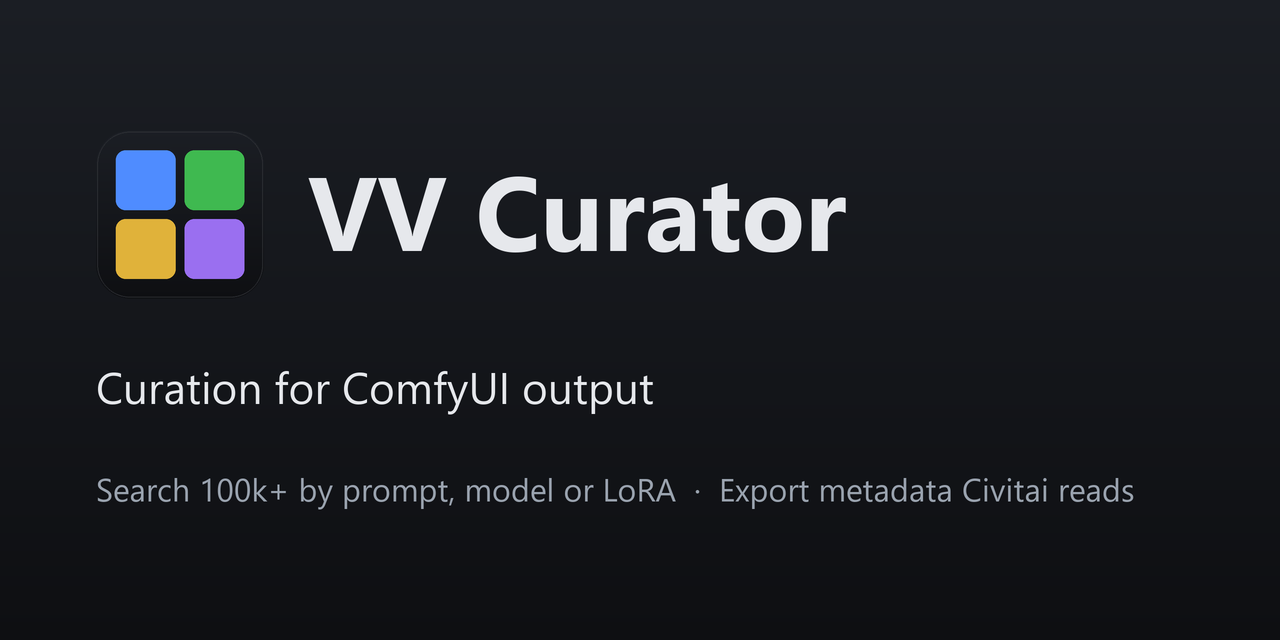
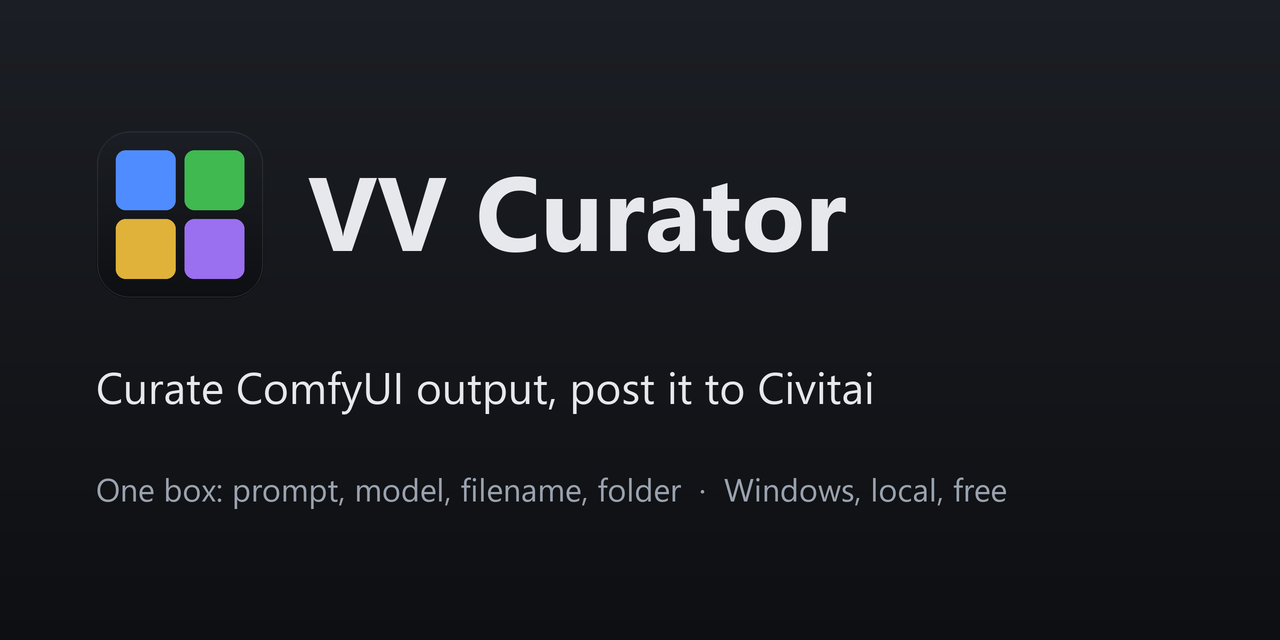
The pitch ends at posting, and the catch-up dialog can be switched off
README and ABOUT both opened on "A curation tool for people who generate
with ComfyUI" and ended their loop sentence at "export the good ones with
Civitai metadata" -- where 1.2 ended. Both now lead with the posting, and
Export is named as the by-hand alternative rather than the destination.

All three of README, ABOUT and the social card also claimed the search
covers LoRAs. It does not: images_fts indexes positive, model_name,
filename, folder and lyrics, and `loras` is a JSON column that feeds the
detail view and the Civitai export only. The same sentence was also
underselling, having never mentioned folder. Now recorded in help.md
under Known gaps.

The after-an-update dialog says how many libraries are behind rather than
implying every one of them is, and carries a "Don't show this again"
checkbox keyed on the reader version, so a build that reads more asks
again. "Do it later" is unchanged.

Changed region(s): [[0.1562, 0.5625, 0.6875, 0.6562], [0.0625, 0.75, 0.5312, 0.8125], [0.5625, 0.75, 0.9062, 0.7812]]

diff --git a/app/app.js b/app/app.js
@@ -118,7 +118,17 @@ function folderLeaf(f) {
 }
 // ---- styled confirm/alert/prompt dialogs (replace the browser-native popups) ----
 let _dlgResolve = null;
+// The opt-out's state from the dialog that just closed, read with dlgChecked(). Kept OUT of the
+// resolved value on purpose: uiConfirm resolves a plain boolean and every existing caller stays as
+// it is, where threading a second value through would have touched all of them to serve one dialog.
+let _dlgLastChecked = false;
+function dlgChecked() { return _dlgLastChecked; }
 function _dlgClose(result) {
+  // READ BEFORE HIDING, and on every route out -- OK, Cancel, Escape and the backdrop all land
+  // here. A ticked opt-out counts even when the dialog is dismissed with Escape: the tick is a
+  // statement about the dialog, not part of the answer to its question.
+  const _chk = $('#dlgCheck');
+  _dlgLastChecked = !_chk.classList.contains('hidden') && !!_chk.querySelector('input').checked;
   $('#dialog').classList.add('hidden');
   const r = _dlgResolve; _dlgResolve = null;
   if (r) r(result);
@@ -128,7 +138,7 @@ function _dlgClose(result) {
 // confirm that didn't ask for one. Same reason the default lives here and not in index.html.
 function _dlgOpen({ msg, title = null, ok = 'OK', cancel = 'Cancel', danger = false,
                    showCancel = true, input = null, choices = null,
-                   fields = null, values = null, strip = null }) {
+                   fields = null, values = null, strip = null, check = null }) {
   return new Promise(resolve => {
     _dlgResolve = resolve;
     // A heading only when one is asked for, and cleared when it is not — this dialog is reused for
@@ -183,6 +193,13 @@ function _dlgOpen({ msg, title = null, ok = 'OK', cancel = 'Cancel', danger = fa
     fieldBox.innerHTML = (fields || [])
       .map(f => extFieldRow({ id: 'dlg', values: values || {} }, f)).join('');
 
+    // OPT-OUT: `{label, checked}`, or null for the dialogs that have none. It never gates OK --
+    // unticked is the ordinary answer here, which is exactly why this is not CHOICES mode.
+    const chk = $('#dlgCheck');
+    chk.classList.toggle('hidden', !check);
+    chk.querySelector('input').checked = !!(check && check.checked);
+    $('#dlgCheckLabel').textContent = (check && check.label) || '';
+
     const okBtn = $('#dlgOk');
     okBtn.textContent = ok; okBtn.classList.toggle('danger', !!danger);
     const cancelBtn = $('#dlgCancel');
@@ -210,7 +227,7 @@ function _dlgSubmit() {   // OK: the composed values, the ticked choices, the in
 }
 function uiConfirm(msg, opts = {}) {
   return _dlgOpen({ msg, title: opts.title, ok: opts.ok || 'OK', cancel: opts.cancel,
-                    danger: opts.danger })
+                    danger: opts.danger, check: opts.check })
     .then(v => v === true);
 }
 // The title is OPTIONAL and most callers still pass none. An ordinary alert is one sentence and a
@@ -7587,11 +7604,21 @@ async function rescanCostLine() {
 // for an EXISTING library on an UPDATED build. Nothing here starts on its own: this asks, and the
 // long job is the user's click. See the no-background-jobs rule.
 //
+// TWO TIERS, because "later" and "stop asking" are different answers.
+//
 // "Do it later" is remembered for this SESSION only, so it returns next launch. A postponed rescan
 // that never comes back is a lost one, and the blanks stay with nothing left to prompt them —
-// sessionStorage is exactly "until you next start the app", where localStorage would be "never
-// again" and config would be "never again on this machine".
+// sessionStorage is exactly "until you next start the app".
+//
+// The CHECKBOX is the other answer, and it is scoped to the READER VERSION rather than being
+// forever. The author, 2026-09-23: "If they download a new version, then the 'Don't show again'
+// should reset." Keyed on the reader and not the app version because the reader is what puts a
+// library behind — an app update that reads no differently leaves nothing behind and never
+// reaches this dialog at all, so the reader key resets exactly when there is something new to
+// ask about. localStorage, not config: the app opens whatever browser is default and the author
+// judged a second browser a strong edge case, so a server round-trip buys nothing here.
 const CATCHUP_SNOOZE = 'vv.catchup.snoozed';
+const CATCHUP_HUSH = 'vv.catchup.hushed';
 // WHICH libraries are behind this build's reader, keyed by library. The launch dialog says THAT
 // some are; this is what lets each row say whether it is one of them, which is the question someone
 // who dismissed the dialog is left holding. The author, 2026-09-14: "if the user does it by hand, there
@@ -7618,11 +7645,29 @@ async function offerCatchUp() {
   try { j = await getJSON('/api/catchup'); } catch (e) { return; }
   noteBehind(j.libraries);
   try { if (sessionStorage.getItem(CATCHUP_SNOOZE)) return; } catch (e) {}
+  const hushKey = `${CATCHUP_HUSH}.${j.reader}`;
+  try { if (localStorage.getItem(hushKey)) return; } catch (e) {}
   const live = (j.libraries || []).filter(l => l.reachable);
   const off = (j.libraries || []).filter(l => !l.reachable);
   if (!live.length) return;                    // nothing to offer, or nothing reachable to offer it for
+  // HOW MANY OF HOW MANY, because the old first clause said "Your libraries" and implied every
+  // one of them was stale, when usually only some are. The author, 2026-09-23. The denominator is
+  // every configured library; the numerator is the ones pressing Rescan would actually touch, so
+  // a library that is behind AND offline is not counted here — it is named in `skip` below,
+  // which is the honest place for a library this run will not reach.
+  const nBehind = live.length;
+  const nTotal = (state.roots || []).length;
+  // THE VERB FOLLOWS THE NUMERATOR, not the word `libraries` in front of it: "1 of 4 libraries
+  // WAS indexed", which is the single-stale-library case and the commonest one after a
+  // targeted rescan. And `Both` at two, because "All 2 libraries" is what counting without
+  // reading gives you -- the same note already on rescanAllLibs' "all 1 libraries".
+  const scope = nTotal <= 1 ? 'Your library was'
+    : nBehind >= nTotal ? (nTotal === 2 ? 'Both libraries were' : `All ${nTotal} libraries were`)
+    : `${nBehind} of ${nTotal} libraries ${nBehind === 1 ? 'was' : 'were'}`;
+  const them = nBehind === 1 ? 'it' : 'them';
   const cost = j.seconds
-    ? `Rescanning takes ${fmtRoughTime(j.seconds)} for ${j.files.toLocaleString()} files.`
+    ? `Rescanning ${nBehind === 1 ? 'it' : `those ${nBehind}`} takes ` +
+      `${fmtRoughTime(j.seconds)} for ${j.files.toLocaleString()} files.`
     : `There are ${j.files.toLocaleString()} files to rescan.`;
   // Offline libraries are NAMED, not silently dropped: they keep their old stamps, so they are
   // offered again next launch, and saying so is the difference between a skip and a surprise.
@@ -7650,11 +7695,27 @@ async function offerCatchUp() {
     // proposal: "will 1 ALWAYS be true?" It would not have been. This sentence is true of every
     // bump there can be, because it describes the gap rather than what filled it. What improved
     // belongs in the release notes, which have room to say it.
-    `Your libraries were indexed by an older version. Rescanning brings them up to date with ` +
+    `${scope} indexed by an older version. Rescanning brings ${them} up to date with ` +
     `this one.` +
     `\n\n${cost}${skip}\n\nOr rescan them yourself: Rescan in each library's ⋯ menu, or ` +
     `Rescan all libraries in the Libraries menu.`,
-    { title, ok: 'Rescan now', cancel: 'Do it later' });
+    { title, ok: 'Rescan now', cancel: 'Do it later',
+      check: { label: "Don't show this again" } });
+  // READ ON EITHER BUTTON, and recorded before the rescan branch: ticking the box and pressing
+  // Rescan now is a coherent answer — a run stopped half way leaves rows behind, and the user
+  // has already said not to be asked about them. None of this touches the per-library marks in
+  // the Libraries list, so which libraries are behind stays answerable by anyone who looks.
+  if (dlgChecked()) {
+    try {
+      // Only the current reader's key survives. An older one can never be consulted again, since
+      // the key is rebuilt from j.reader on every launch, so keeping them is litter.
+      for (let i = localStorage.length - 1; i >= 0; i--) {
+        const k = localStorage.key(i);
+        if (k && k.startsWith(CATCHUP_HUSH + '.') && k !== hushKey) localStorage.removeItem(k);
+      }
+      localStorage.setItem(hushKey, '1');
+    } catch (e) {}
+  }
   if (!go) {
     try { sessionStorage.setItem(CATCHUP_SNOOZE, '1'); } catch (e) {}
     // WHERE IT WENT, so "later" is not a door closing. Named exactly as the menu item reads.

diff --git a/tests/test_rescan_all.js b/tests/test_rescan_all.js
@@ -109,8 +109,20 @@ function fnBody(decl) {
   const offer = fnBody('async function offerCatchUp(');
   check('the update offer runs the same function the menu does', /runRescanAll\(/.test(offer));
   check('  and asks before it, never during', /uiConfirm\(/.test(offer));
+  // TWO TIERS, and they must not collapse into one. "Do it later" stays sessionStorage, so a
+  // postponed rescan returns next launch rather than being lost. The checkbox is the other
+  // answer and is allowed to persist -- but only KEYED ON THE READER, which is what makes it
+  // reset on a build that reads more. A bare localStorage key here would be "never again",
+  // and the user would never learn a later version left their library behind.
   check('  "Do it later" is remembered for the session only, so it returns next launch',
-    /sessionStorage/.test(offer) && !/localStorage/.test(offer));
+    /sessionStorage\.setItem\(CATCHUP_SNOOZE/.test(offer));
+  check('  and the opt-out persists, scoped to the reader version',
+    /localStorage\.setItem\(hushKey/.test(offer) && /CATCHUP_HUSH\}\.\$\{j\.reader\}/.test(offer));
+  // PRESENCE BEFORE ORDER: indexOf returns -1 for a string that is gone, which is less than
+  // everything, so an order-only check goes green the moment the thing it guards is deleted.
+  check('    read on EITHER button, so Escape and Rescan now both honour it',
+    /dlgChecked\(\)/.test(offer) && /if \(!go\)/.test(offer)
+    && offer.indexOf('dlgChecked()') < offer.indexOf('if (!go)'));
   check('  and says where the action went', /Rescan all libraries/.test(offer));
 
   // ---- 5. reachable from the menu -------------------------------------------------------------

diff --git a/app/style.css b/app/style.css
@@ -2956,6 +2956,15 @@ button.lib-stat:hover { background-color: var(--hover-lift); color: var(--fg); }
 .dialog-choices input { margin-top:2px; flex: 0 0 auto; }   /* aligns the box to the first line, not the block */
 .dialog-choices .dlg-choice-hint { display: block; color: var(--muted); font-size: var(--text-sm); }
 
+/* OPT-OUT: one checkbox that does not gate OK, sitting with the BUTTONS rather than the message.
+   It is a decision about the dialog, not an answer to its question -- placed up in the message
+   block it read as a third thing to weigh before answering. Muted and small for the same reason:
+   it must not compete with the two buttons beside it. */
+.dialog-opt { display: flex; align-items: center; gap:var(--space-2); cursor: pointer;
+  margin:0 0 var(--space-3); color: var(--muted); font-size: var(--text-sm); }
+.dialog-opt.hidden { display: none; }
+.dialog-opt input { flex: 0 0 auto; margin:0; }
+
 /* COMPOSE MODE: a dialog that builds something rather than confirming it. The fields are the
    extension's own schema drawn by extFieldRow, so they arrive as .set-row and inherit Settings'
    spacing -- there is nothing to style here but the gap around the block. */

diff --git a/app/index.html b/app/index.html
@@ -1413,6 +1413,13 @@
            schema, which is what keeps an extension from supplying markup. -->
       <div id="dlgStrip" class="dialog-strip hidden"></div>
       <div id="dlgFields" class="dialog-fields hidden"></div>
+      <!-- OPT-OUT MODE: one checkbox that does NOT gate OK and is read on EITHER button. Kept
+           separate from CHOICES above, which answers "which of these?" and disables OK until
+           something is ticked -- the opposite of what an opt-out needs, where nothing ticked is the
+           ordinary answer. Read with dlgChecked() after the dialog resolves. -->
+      <label id="dlgCheck" class="dialog-opt hidden">
+        <input type="checkbox"><span id="dlgCheckLabel"></span>
+      </label>
       <div class="dialog-actions">
         <button id="dlgCancel" class="ghost">Cancel</button>
         <button id="dlgOk" class="primary">OK</button>

diff --git a/tests/test_catchup.py b/tests/test_catchup.py
@@ -21,9 +21,16 @@ What this pins, and why each one can rot quietly:
      its old stamps, so it is offered again next launch.
   5. **The menu has one scan verb**, and the all-libraries action lives in the menu that is about all
      the libraries.
-  6. **"Do it later" is remembered for the session, not forever.** sessionStorage is "until you next
-     start the app"; localStorage would be "never again in this browser" and config "never again on
-     this machine" — and a postponed rescan that never returns is a lost one.
+  6. **Two tiers, and they must not collapse into one.** "Do it later" stays sessionStorage —
+     "until you next start the app" — because a postponed rescan that never returns is a
+     lost one. The **Don't show this again** checkbox (the author, 2026-09-23) is the other answer
+     and does persist, but KEYED ON THE READER VERSION, so a build that reads more asks again:
+     his rule was "if they download a new version, then the 'Don't show again' should reset". A
+     bare localStorage key would be "never again", and the user would never learn that a later
+     version had left their library behind.
+  7. **The sentence counts libraries, and its verb follows the numerator.** "1 of 4 libraries WAS
+     indexed by an older version." The old wording said "Your libraries" and implied every one of
+     them was stale, when usually only some are.
 
 Runs in-process on an ephemeral port against a temp data dir. Touches no real library.
 """
@@ -185,8 +192,14 @@ check('Rescan all libraries lives in the Libraries menu, above Add library',
       'libRescanAll must come first')
 
 print('the offer')
+# The old form of this forbade localStorage outright, and by 2026-09-23 it was passing by ACCIDENT:
+# its regex was case-sensitive and the new key's constant is upper case, so the very storage it was
+# meant to govern slipped straight past it. Name both tiers instead of banning one mechanism.
 check('"Do it later" is remembered for the session only',
-      'sessionStorage' in js and re.search(r'localStorage[^\n]*catchup', js) is None)
+      'sessionStorage.setItem(CATCHUP_SNOOZE' in js)
+check('  and the checkbox that does persist is keyed on the reader version',
+      'localStorage.setItem(hushKey' in js
+      and '`${CATCHUP_HUSH}.${j.reader}`' in js)
 check('  and says where the action went', 'Rescan all libraries' in js)
 # REPLACED 2026-09-14. It said "This version has new features that won't work until a rescan",
 # which points at the interface, where nothing changes. Every alternative that named WHAT improved
@@ -196,7 +209,22 @@ check('  and says where the action went', 'Rescan all libraries' in js)
 # "will 1 ALWAYS be true?" It would not have been. This sentence describes the GAP rather than what
 # filled it, so it is true of every bump there can be, and what improved goes in the release notes.
 check('the dialog uses the author\'s wording',
-      'Your libraries were indexed by an older version' in js)
+      'indexed by an older version. Rescanning brings ${them} up to date with ' in js)
+# HOW MANY OF HOW MANY, the author's ask on 2026-09-23. The first clause used to read "Your
+# libraries", which says every one of them is stale when usually only some are. Each branch is
+# pinned separately: they are different sentences and only one is ever on screen.
+check('  and says how many libraries are behind, of how many there are',
+      '`${nBehind} of ${nTotal} libraries ' in js)
+check('    with the verb following the NUMERATOR, not the word libraries',
+      """${nBehind === 1 ? 'was' : 'were'}""" in js)
+check('    and a word, not a digit, when every library is behind',
+      """'Both libraries were'""" in js and '`All ${nTotal} libraries were`' in js)
+check('    and the singular library never reads "1 of 1"',
+      """nTotal <= 1 ? 'Your library was'""" in js)
+# The numerator is what pressing Rescan would TOUCH, so a library that is behind AND offline is not
+# in it -- that one is named in the skip sentence, which is the honest place for it.
+check('    counting only the libraries this run would reach',
+      'const nBehind = live.length;' in js)
 # The heading carries the version so the sentence can be about what to do. It is also the one place
 # the release number is spoken to a person, which is why it degrades to a plain sentence rather than
 # printing "version  of" when the server sends none.

diff --git a/DESIGN.md b/DESIGN.md
@@ -367,6 +367,7 @@ Use these. Do not invent another for the same job.
 | `.group-title` | section header (FILTERS/TAGS) | distinct from a cap label |
 | `.qenter` | the ⏎ in a search box: "press Enter to keep this" | tracks the END OF THE TEXT, not the field edge, so `left` is set from JS against a `position:relative` `.searchbox` — nothing in CSS can see where text inside an `<input>` ends. Clamped short of `.qclear`, which stays pinned right. It is a real button and commits the term: a glyph beside a live control gets clicked whatever it looks like |
 | `.dialog-choices` | the shared dialog's CHOICES mode — a confirm that asks *which*, not just whether | built by `_dlgOpen` from a `choices` array, never written into the markup: the options differ per caller and some exist only conditionally. **Checkboxes, not radios**, because the things chosen between are disjoint and "both" is a real answer. OK is disabled while nothing is ticked — a destructive action on an empty set would report success having done nothing |
+| `.dialog-opt` | the shared dialog's OPT-OUT: one checkbox that changes whether the dialog RETURNS, not what it answers | built by `_dlgOpen` from a `check` object, read with `dlgChecked()` after it resolves. **Never gates OK**, and is read on every route out including Escape and the backdrop — unticked is the ordinary answer, which is what separates it from `.dialog-choices` above. Sits with the buttons, muted and `--text-sm`, so it cannot compete with them |
 | `.dialog-title` | the shared dialog's OPTIONAL heading | `--text-xl` with no margin of its own, matching `.setup-box h2` / `.rename-box h2` — a modal's title is one size wherever the modal is, and the box already spaces its children. **A heading is for a dialog that ANNOUNCES something before it asks**; an ordinary confirm gets none, or you have a label reading "Confirm" above the thing being confirmed. `_dlgOpen` clears it when a caller passes none — one dialog serves every confirm in the app, so a title left standing reappears over the next unrelated question |
 | `.settings-tab-sub` | an extension's own tab in the Settings rail | indented on `--set-indent` and ellipsised to one line: the name comes from the extension's author, and a long one made the rail's height a property of what happened to be installed |
 | `.ext-answer` / `.ext-answer-text` | an extension's prose answer in the detail panel | follows `.ext-tags`' anatomy on purpose — a labelled row, not restyled prose. The answer is shown, not stored, so nothing here persists |

diff --git a/README.md b/README.md
@@ -1,11 +1,17 @@
 # VV Curator
 
-**A curation tool for people who generate with ComfyUI and end up drowning in their own output.**
+**Browse and curate ComfyUI outputs, then post them to Civitai.**
 
 Point it at one folder and you can scroll everything underneath it — every subfolder, in one grid,
 with no opening folders one at a time. It reads the workflow ComfyUI embeds in your files, so the
-whole library becomes searchable by prompt, model and LoRA — then helps you finish the job: collapse
-a run into one card, mark the keeper, recycle the rest, and export the good ones with Civitai metadata.
+whole library becomes searchable. One box covers the prompt, the model, the filename and the
+folder at once, so you don't have to remember which one it was. Then it helps you finish the
+job: collapse a run's outputs into one card, mark the keeper, and recycle the rest.
+
+**The last step happens in the app.** Select your keepers, press Post, and they go up to Civitai
+together as one draft, with their prompts, models and LoRAs already filled in. Nothing is public
+until you publish it there yourself. If you would rather upload by hand, *Export for Civitai*
+still writes you the file.
 
 Built and used against **110k+ files across five libraries** — two local, three on network
 shares.
@@ -109,8 +115,8 @@ your Python, and a few view preferences your browser keeps for the page.
 
 ## What it does
 
-- **Search every folder at once** — by prompt, model, LoRA, folder, filename, type or date, across
-  every library you've added.
+- **Search every folder at once** — by prompt, model, filename or folder, in one box and across
+  every library you've added. Narrow it by type, date, model type and more.
 - **A generation is one card.** The stills and the video from a single run collapse to one thumbnail,
   so a run reads as one thing rather than six. Mark the keeper, recycle the rest, and apply that same
   decision to every matching set in the folder.

diff --git a/ABOUT.md b/ABOUT.md
@@ -1,14 +1,16 @@
 # About VV Curator
 
-**A curation tool for people who generate with ComfyUI and end up drowning in their own output.**
+**Browse and curate ComfyUI outputs, then post them to Civitai.**
 
 Sifting through thousands of images is hard. If yours are spread across folders you named in a
 hurry, and going back through them has never quite worked, that's the problem this solves.
 
-It reads the workflow ComfyUI embeds in a PNG, and the copy it puts in a WebP or JPEG's EXIF, so the
-whole library becomes searchable by prompt, model and LoRA. Then it helps you finish the job:
-collapse a generation into one card, mark the keeper, recycle the rest, and export the good ones
-with Civitai metadata.
+It reads the workflow ComfyUI embeds in a PNG, and the copy it puts in a WebP or JPEG’s EXIF, so the
+whole library becomes searchable. One box covers the prompt, the model, the filename and the
+folder at once, so you don't have to remember which one it was. Then it helps you finish the
+job: collapse a run's outputs into one card, mark the keeper, recycle the rest, and send the best
+of them straight to Civitai, with their prompts, models and LoRAs already filled in. Nothing is
+public until you publish it there yourself.
 
 **The base app, with no extensions switched on, is local only. Nothing leaves your machine.** There
 is no account and no telemetry. Its one outbound request is at startup, asking GitHub whether a

diff --git a/docs/help.md b/docs/help.md
@@ -371,6 +371,9 @@ on sends it.
 
 ## Known gaps
 
+- **The search box does not find LoRAs.** It covers the prompt, the model, the filename and the
+  folder; a LoRA's name is stored and shown in the detail view, and goes out with a Civitai
+  post or export, but no search or filter matches it. Closed by the author 2026-09-24.
 - **Clicking a tag suggestion identical to what you already typed does nothing** — the browser fires
   no event at all when the value doesn't change. Press `Enter` instead, which always works.
 - **A custom stage can only be the first one.** It cannot sit in the middle of a pipeline or at the
